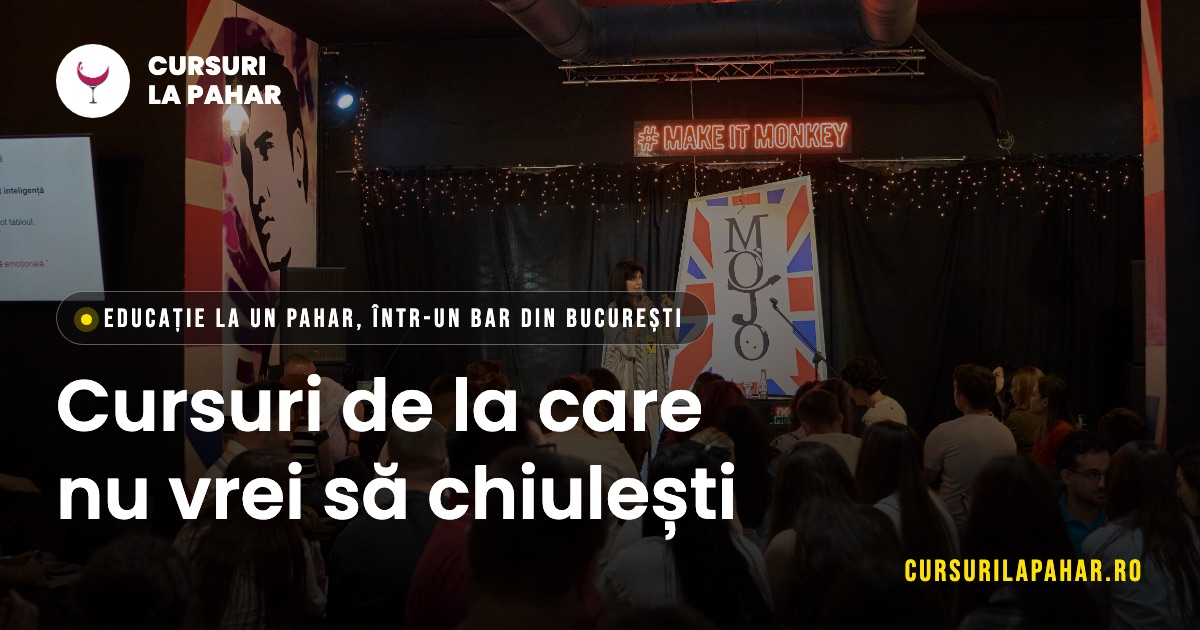
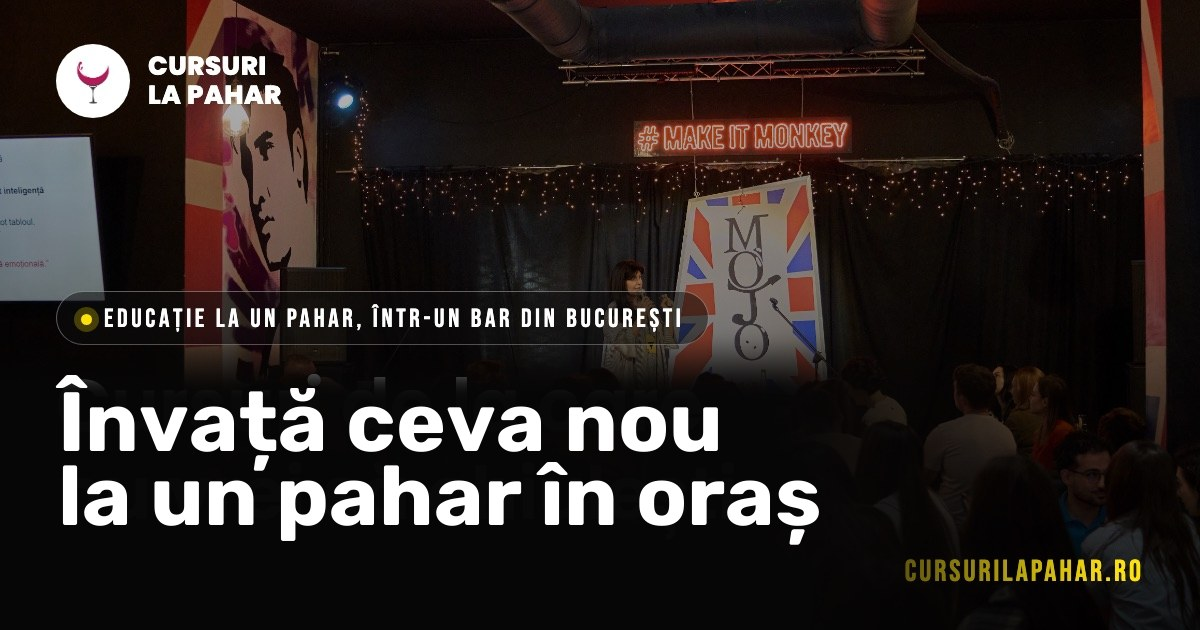
Open Graph: headline nou „Învață ceva nou la un pahar în oraș" pe imaginea de share + cache-bust ?v=2 pe toate paginile publice

diff --git a/cursuri-posibile.php b/cursuri-posibile.php
@@ -36,14 +36,14 @@ $settings = array_merge($_defaults, $_loaded);
     <meta property="og:title" content="Cursuri posibile – Cursuri la Pahar">
     <meta property="og:description" content="Idei de teme pentru un curs la pahar: știință, istorie, psihologie, film, muzică și multe altele. Caută inspirație și prezintă un curs.">
     <meta property="og:url" content="https://cursurilapahar.ro/cursuri-posibile">
-    <meta property="og:image" content="https://cursurilapahar.ro/assets/images/og-image.jpg">
+    <meta property="og:image" content="https://cursurilapahar.ro/assets/images/og-image.jpg?v=2">
     <meta property="og:image:width" content="1200">
     <meta property="og:image:height" content="630">
     <meta property="og:image:alt" content="Cursuri la Pahar – curs ținut într-un bar plin din București">
     <meta name="twitter:card" content="summary_large_image">
     <meta name="twitter:title" content="Cursuri posibile – Cursuri la Pahar">
     <meta name="twitter:description" content="Idei de teme pentru un curs la pahar: știință, istorie, psihologie, film, muzică și multe altele.">
-    <meta name="twitter:image" content="https://cursurilapahar.ro/assets/images/og-image.jpg">
+    <meta name="twitter:image" content="https://cursurilapahar.ro/assets/images/og-image.jpg?v=2">
     <link rel="preconnect" href="https://fonts.googleapis.com">
     <link rel="preconnect" href="https://fonts.gstatic.com" crossorigin>
     <link href="https://fonts.googleapis.com/css2?family=Anton&family=Poppins:wght@800&family=Rubik:ital,wght@0,300;0,400;0,500;0,600;0,700;0,800;0,900;1,300;1,400&display=swap" rel="stylesheet">

diff --git a/gazduieste-un-curs.php b/gazduieste-un-curs.php
@@ -41,14 +41,14 @@ $gazduieste_intro_2 = $settings['gazduieste_intro_2'] ?? 'Ai un <strong>bar, un 
     <meta property="og:title" content="Găzduiește un curs – Cursuri la Pahar">
     <meta property="og:description" content="Găzduiește un curs la Cursuri la Pahar. Transformă-ți locația într-un spațiu de educație și socializare.">
     <meta property="og:url" content="https://cursurilapahar.ro/gazduieste-un-curs">
-    <meta property="og:image" content="https://cursurilapahar.ro/assets/images/og-image.jpg">
+    <meta property="og:image" content="https://cursurilapahar.ro/assets/images/og-image.jpg?v=2">
     <meta property="og:image:width" content="1200">
     <meta property="og:image:height" content="630">
     <meta property="og:image:alt" content="Cursuri la Pahar – curs ținut într-un bar plin din București">
     <meta name="twitter:card" content="summary_large_image">
     <meta name="twitter:title" content="Găzduiește un curs – Cursuri la Pahar">
     <meta name="twitter:description" content="Găzduiește un curs la Cursuri la Pahar. Transformă-ți locația într-un spațiu de educație și socializare.">
-    <meta name="twitter:image" content="https://cursurilapahar.ro/assets/images/og-image.jpg">
+    <meta name="twitter:image" content="https://cursurilapahar.ro/assets/images/og-image.jpg?v=2">
     <link rel="preconnect" href="https://fonts.googleapis.com">
     <link rel="preconnect" href="https://fonts.gstatic.com" crossorigin>
     <link href="https://fonts.googleapis.com/css2?family=Anton&family=Poppins:wght@800&family=Rubik:ital,wght@0,300;0,400;0,500;0,600;0,700;0,800;0,900;1,300;1,400&display=swap" rel="stylesheet">

diff --git a/index.php b/index.php
@@ -137,14 +137,14 @@ if ($cache_dirty) @file_put_contents($soldout_cache_file, json_encode($soldout_c
     <meta property="og:title" content="Învață ceva nou la un pahar în oraș">
     <meta property="og:description" content="Experți și profesori îți predau la un pahar, într-un bar din București.">
     <meta property="og:url" content="https://cursurilapahar.ro/">
-    <meta property="og:image" content="https://cursurilapahar.ro/assets/images/og-image.jpg">
+    <meta property="og:image" content="https://cursurilapahar.ro/assets/images/og-image.jpg?v=2">
     <meta property="og:image:width" content="1200">
     <meta property="og:image:height" content="630">
     <meta property="og:image:alt" content="Cursuri la Pahar – curs ținut într-un bar plin din București">
     <meta name="twitter:card" content="summary_large_image">
     <meta name="twitter:title" content="Învață ceva nou la un pahar în oraș">
     <meta name="twitter:description" content="Experți și profesori îți predau la un pahar, într-un bar din București.">
-    <meta name="twitter:image" content="https://cursurilapahar.ro/assets/images/og-image.jpg">
+    <meta name="twitter:image" content="https://cursurilapahar.ro/assets/images/og-image.jpg?v=2">
     <link rel="preconnect" href="https://fonts.googleapis.com">
     <link rel="preconnect" href="https://fonts.gstatic.com" crossorigin>
     <link href="https://fonts.googleapis.com/css2?family=Anton&family=Bebas+Neue&family=Poppins:wght@800&family=Rubik:ital,wght@0,300;0,400;0,500;0,600;0,700;0,800;0,900;1,300;1,400&display=swap" rel="stylesheet">

diff --git a/prezinta-un-curs.php b/prezinta-un-curs.php
@@ -41,14 +41,14 @@ $sustine_intro_2 = $settings['sustine_intro_2'] ?? 'Dacă ai nevoie de inspiraț
     <meta property="og:title" content="Prezintă un curs – Cursuri la Pahar">
     <meta property="og:description" content="Prezintă un curs la Cursuri la Pahar. Vino să împărtășești expertiza ta cu comunitatea noastră.">
     <meta property="og:url" content="https://cursurilapahar.ro/prezinta-un-curs">
-    <meta property="og:image" content="https://cursurilapahar.ro/assets/images/og-image.jpg">
+    <meta property="og:image" content="https://cursurilapahar.ro/assets/images/og-image.jpg?v=2">
     <meta property="og:image:width" content="1200">
     <meta property="og:image:height" content="630">
     <meta property="og:image:alt" content="Cursuri la Pahar – curs ținut într-un bar plin din București">
     <meta name="twitter:card" content="summary_large_image">
     <meta name="twitter:title" content="Prezintă un curs – Cursuri la Pahar">
     <meta name="twitter:description" content="Prezintă un curs la Cursuri la Pahar. Vino să împărtășești expertiza ta cu comunitatea noastră.">
-    <meta name="twitter:image" content="https://cursurilapahar.ro/assets/images/og-image.jpg">
+    <meta name="twitter:image" content="https://cursurilapahar.ro/assets/images/og-image.jpg?v=2">
     <link rel="preconnect" href="https://fonts.googleapis.com">
     <link rel="preconnect" href="https://fonts.gstatic.com" crossorigin>
     <link href="https://fonts.googleapis.com/css2?family=Anton&family=Poppins:wght@800&family=Rubik:ital,wght@0,300;0,400;0,500;0,600;0,700;0,800;0,900;1,300;1,400&display=swap" rel="stylesheet">

diff --git a/propune-un-parteneriat.php b/propune-un-parteneriat.php
@@ -41,14 +41,14 @@ $parteneriat_intro_2 = $settings['parteneriat_intro_2'] ?? 'Căutăm parteneri c
     <meta property="og:title" content="Propune un parteneriat – Cursuri la Pahar">
     <meta property="og:description" content="Propune un parteneriat cu Cursuri la Pahar. Construiește ceva frumos alături de noi.">
     <meta property="og:url" content="https://cursurilapahar.ro/propune-un-parteneriat">
-    <meta property="og:image" content="https://cursurilapahar.ro/assets/images/og-image.jpg">
+    <meta property="og:image" content="https://cursurilapahar.ro/assets/images/og-image.jpg?v=2">
     <meta property="og:image:width" content="1200">
     <meta property="og:image:height" content="630">
     <meta property="og:image:alt" content="Cursuri la Pahar – curs ținut într-un bar plin din București">
     <meta name="twitter:card" content="summary_large_image">
     <meta name="twitter:title" content="Propune un parteneriat – Cursuri la Pahar">
     <meta name="twitter:description" content="Propune un parteneriat cu Cursuri la Pahar. Construiește ceva frumos alături de noi.">
-    <meta name="twitter:image" content="https://cursurilapahar.ro/assets/images/og-image.jpg">
+    <meta name="twitter:image" content="https://cursurilapahar.ro/assets/images/og-image.jpg?v=2">
     <link rel="preconnect" href="https://fonts.googleapis.com">
     <link rel="preconnect" href="https://fonts.gstatic.com" crossorigin>
     <link href="https://fonts.googleapis.com/css2?family=Anton&family=Poppins:wght@800&family=Rubik:ital,wght@0,300;0,400;0,500;0,600;0,700;0,800;0,900;1,300;1,400&display=swap" rel="stylesheet">

diff --git a/voteaza-cursuri.php b/voteaza-cursuri.php
@@ -50,14 +50,14 @@ shuffle($vote_courses);
     <meta property="og:title" content="Votează cursuri – Cursuri la Pahar">
     <meta property="og:description" content="Votează temele de curs care te interesează. Cele mai apreciate teme au șanse mai mari să devină cursuri viitoare.">
     <meta property="og:url" content="https://cursurilapahar.ro/voteaza-cursuri">
-    <meta property="og:image" content="https://cursurilapahar.ro/assets/images/og-image.jpg">
+    <meta property="og:image" content="https://cursurilapahar.ro/assets/images/og-image.jpg?v=2">
     <meta property="og:image:width" content="1200">
     <meta property="og:image:height" content="630">
     <meta property="og:image:alt" content="Cursuri la Pahar – curs ținut într-un bar plin din București">
     <meta name="twitter:card" content="summary_large_image">
     <meta name="twitter:title" content="Votează cursuri – Cursuri la Pahar">
     <meta name="twitter:description" content="Votează temele de curs care te interesează. Cele mai apreciate teme au șanse mai mari să devină cursuri viitoare.">
-    <meta name="twitter:image" content="https://cursurilapahar.ro/assets/images/og-image.jpg">
+    <meta name="twitter:image" content="https://cursurilapahar.ro/assets/images/og-image.jpg?v=2">
     <link rel="preconnect" href="https://fonts.googleapis.com">
     <link rel="preconnect" href="https://fonts.gstatic.com" crossorigin>
     <link href="https://fonts.googleapis.com/css2?family=Anton&family=Poppins:wght@800&family=Rubik:ital,wght@0,300;0,400;0,500;0,600;0,700;0,800;0,900;1,300;1,400&display=swap" rel="stylesheet">